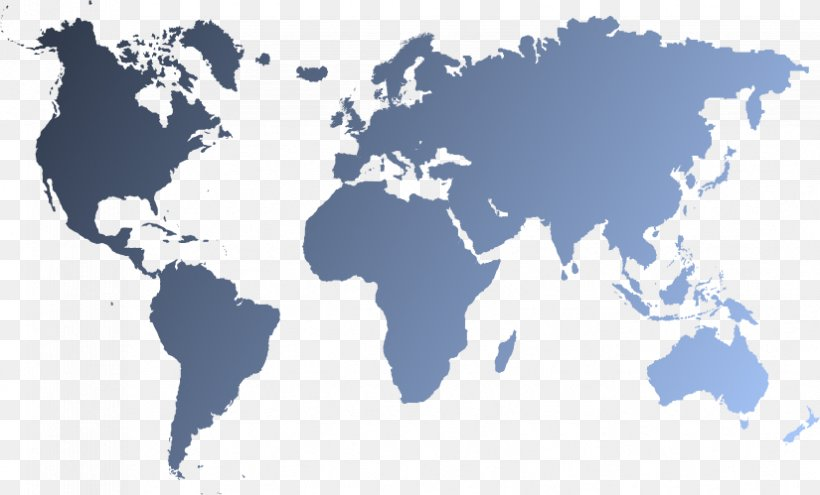
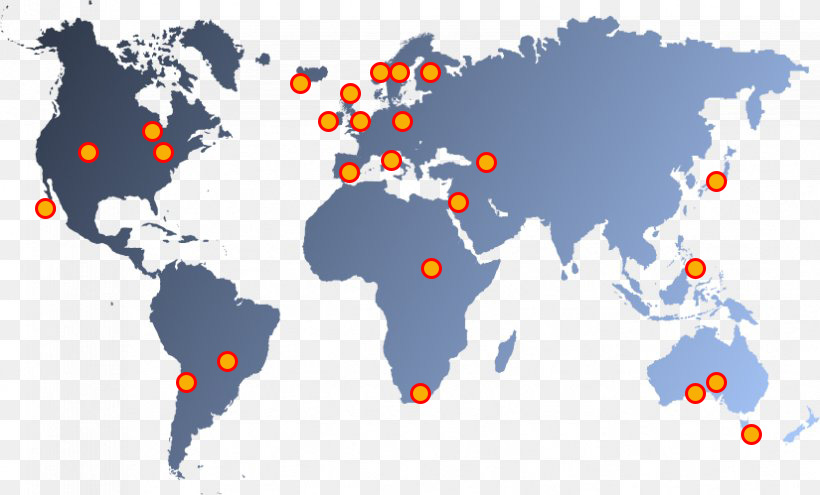
Creating Reviews section template  /about

diff --git a/about.html b/about.html
@@ -109,32 +109,29 @@
             <h3>Animated photo or Jumboo here</h3>
         </div>
 
-        <div class="container-fluid history-title no-gutter"> 
         
-            <h2>SPYRAMOTO</h2>
-        </div>
         
-        <div class="container-fluid exhaust-tuning">
+        <div class="container-fluid exhaust-tuning">  <!--==================================  TUNING - PAST, NOW AND FUTURE  ========================-->
             <h2>EXHAUST TUNING</h2>
                 <div class="row">
 
                     <div class="col-sm tuning scratch "> <!--================================================ SCRATCH ========================-->
-                            <h3 class="tuning-title">FROM <br class="d-lg-none">THE SCRATCH</h3>
+                            <h3 class="tuning-title">THE SCRATCH</h3>
                             <p class="tuning-icon"><i class="fas fa-history"></i></p>    
                             
                             <h4 class="tuning-subtitle">The  <br class="d-lg-none">Roots</h4>
                             <p class="tuning-content">
-                                    Wojtek comes from family that was involved in motorcycles since their started to cross our Globe. 
-                                    His Dad and his Uncle they had couple of them while Grandpa was a mechanic who fix their machines as well as worked for external customer and gained respect for his job.
+                                    My family that was involved in motorcycles since their started to cross our Globe. 
+                                    Both Dad and Uncle had few bikes while Grandpa was fixing them and was a respected local mechanic.
                             </p>
 
                             <hr class="general-divider d-block d-md-none"/>
 
                             <h4 class="tuning-title">Early <br class="d-lg-none">infected</h4>
                             <p class="tuning-content">
-                                    First bike in age 14. Many kilometers later started dreaming about having bike that gonna be really unusual and <strong> The Cyclop</strong> has raised. <br>
-                                    Kept for number of years finaly found new home in UK. And after publication people started to phone if he could do same good job on their model. <br>
-                                    After first, the second came, and so on. Today big family of <strong>over 20</strong> beauties like <em>"Skirtblower"</em> or <em>"N°13 Single Bend"</em> are flying to new owners overseas.<br>
+                                    I had my first bike in age 14. Many kms later I started dreaming about really unusual one and <strong> The Cyclop</strong> has raised and gained interest of press. <br>
+                                    People started to ask if I could do same good job on their models. <br>
+                                    Today big family of <strong>over 20</strong> beauties like <em>"Skirtblower"</em> or <em>"N°13 Single Bend"</em> are flying to new owners overseas.<br>
                                     See whole range <a href="range.html" class="badge badge-primary">HERE!</a>
                             </p>
                              
@@ -142,7 +139,7 @@
                     </div>
                     
                     <div class="col-sm tuning now "> <!--================================================ NOW ========================-->
-                            <h3 class="tuning-title">SPYRA <br class="d-lg-none">MOTO</h3>
+                            <h3 class="tuning-title">SPYRAMOTO</h3>
                             <p class="tuning-icon"><i class="fas fa-tools"></i></p>    
                             
                             <h4 class="tuning-subtitle">The  <br class="d-lg-none">Lucky</h4>
@@ -164,19 +161,20 @@
                     </div>
 
                     <div class="col-sm tuning future "> <!--================================================ FUTURE ========================-->
-                            <h3 class="tuning-title">THE <br class="d-lg-none">FUTURE</h3>
+                            <h3 class="tuning-title">THE FUTURE</h3>
                             <p class="tuning-icon"><i class="fas fa-binoculars"></i></p>    
                             
                             <h4 class="tuning-subtitle">New  <br class="d-lg-none">Materials</h4>
                             <p class="tuning-content">
-                                    I’d like to see more happy customers cruising on the roads so currently I’m testing <strong>titanium</strong> process to introduce this absolutely amazing material in future, so stay tuned!
+                                    I’d like to see more happy customers cruising on the roads so currently I’m testing <strong>titanium</strong> process to introduce this absolutely amazing material in future. 
+                                    It need to go under many checks before I'll accept new product to keep my reputation so please be patient and stay tuned!
                             </p>
 
                             <h4 class="tuning-title">Holy <br class="d-lg-none">Smoke</h4>
                             <p class="tuning-content">
                                     Good news - especially for Easy Riders!
-                                    A brand new and a brave design is in progress for green project that will be named: <br>
-                                <span class="badge badge-success">SOON!</span><strong> Raggamuffler</strong> – for relaxing rides in form of your favourite shaped joint!
+                                    Ever wondering how would look Marley on a Harley? To response this question a brand new and a brave design is in progress for green project that will be named: <br>
+                                <span class="badge badge-success">SOON!</span><strong> Raggamuffler</strong> – for quiet, relaxing and stylish ride in form of your perfectly shaped joint!
                             </p>
                              
                             <hr class="block-divider press-divider d-block d-md-none"/>
@@ -185,7 +183,94 @@
                     
                     
                 </div>  
+        </div> <!--========  TUNING END  ======-->
+
+
+
+
+        <div class="container-fluid rollin-round"> <!--==================================  MAP - ROLLIN' ROUND  ========================-->
+            <h2>ROLLIN' ROUND</h2>
+            <div class="row">
+                <div class="customers-map"> <!--- //////// CHANGE THAT CLASS LATER \\\\\\\\\\\\\\\ ----->
+                        <h3>They trusted us</h3>
+                        <div>
+                            <p>Check where you can <strong>hear</strong> SpyraMoto custom-build pipes!</p>
+                        </div>
+                </div>
+
+                <div class="card bg-dark text-white">
+                    <img class="card-img" src="assets/images/royaltyfreemap.jpg" alt="Card image">
+                    <div class="card-img-overlay text-primary">
+                        <h5 class="card-title text-light bg-dark">Map of Customers</h5>
+                    </div>
+                </div>
+            </div>
         </div>
+
+        
+        
+        
+        
+        <div class="container-fluid reviews">  <!--==================================  REVIEWS  ========================-->
+            <h2> REVIEWS</h2>  
+        </div> 
+
+        <div class="card-group"> <!--========== REVIEWS ROW 1 ==========-->
+
+            <div class="card review"> <!--========== wabbithunter69 ==========-->
+                <img class="card-img-top mx-auto rounded-circle" src="assets/images/01.jpg" alt="customised bike">
+                <div class="card-body">
+                <h5 class="card-title">N° 2 Pullbacks</h5>
+                <p class="card-text"><cite>
+                                    Nice one dude, much appreciated! <i class="far fa-thumbs-up"></i> <br>
+                                    Happy days man <i class="far fa-hand-peace"></i> Looks superb.
+                </cite></p>
+                </div>
+                <div class="card-footer">
+                    <small class="text-muted"> <i class="fas fa-user"></i> wabbithunter69 | MESOPOTAMIA <br>
+                    <span style="vertical-align:middle;">posted 6 Jan 2020 on</span> <span style="vertical-align:middle;">&nbsp;&nbsp;<i class="fab fa-instagram-square"></i></span></small>
+                </div>
+                
+            </div>
+
+                <hr class="general-divider d-block d-md-none"/>
+
+            <div class="card review"> <!--========== shand3m ==========-->
+                <img class="card-img-top mx-auto rounded-circle" src="assets/images/02.jpg" alt="customised bike">
+                <div class="card-body">
+                    <h5 class="card-title">N° 13 Single Bend</h5>
+                    <p class="card-text"><cite>
+                                    Beautiful<br>
+                                    hey look awesome man, send u pics when the bikes finished in a couple of weeks!</cite> <br>
+                                    [ALREADY SENT]
+                    </p>
+                </div>
+                <div class="card-footer">
+                    <small class="text-muted"> <i class="fas fa-user"></i> shand3m | DALMATIA <br>
+                    <span style="vertical-align:middle;">posted 31 Feb 2033 on</span> <span style="vertical-align:middle;">&nbsp;&nbsp;<i class="fab fa-instagram-square"></i></span></small>
+                </div>
+            </div>
+
+                <hr class="general-divider d-block d-md-none"/>
+
+            <div class="card review"> <!--========== Khoudri Dominique ==========-->
+                <img class="card-img-top mx-auto rounded-circle" src="assets/images/03.jpg" alt="customised bike">
+                <div class="card-body">
+                    <h5 class="card-title">N° 02 Pullbacks</h5>
+                    <p class="card-text"><cite>
+                                    Very nice !!! <i class="far fa-thumbs-up"></i>&nbsp;&nbsp;<i class="far fa-thumbs-up"></i> <br>
+                                    Thank you very much <i class="far fa-grin-beam-sweat"></i>  <i class="far fa-hand-rock"></i>
+                    </cite></p>
+                </div>
+                <div class="card-footer">
+                    <small class="text-muted"><i class="fas fa-user"></i> Khoudri Dominique | FR. POLINESIA  <br>
+                    <span style="vertical-align:middle;">posted 31 Feb 2033 on</span> <span style="vertical-align:middle;">&nbsp;&nbsp;<i class="fab fa-instagram-square"></i></span></small>
+                </div>
+            </div> 
+
+        </div>
+
+        <hr class="general-divider d-block d-md-none"/>
 
 
         

diff --git a/assets/css/style.css b/assets/css/style.css
@@ -575,6 +575,7 @@ body {
      padding-bottom: 15px;
      color: #404040; 
      margin-bottom: 0;
+     font-family: "Racing Sans One", sans-serif;
  }
 
 
@@ -601,6 +602,22 @@ body {
 }
 
 
+/*=============================    REVIEWS ===========================*/
+
+ 
+
+
+.reviews {
+    background-color: rgb(128, 2, 2);
+    padding-top: 0;
+    margin-top: 15px;
+}
+
+.review {
+    background-color: #999999;
+    padding-bottom: 15px;
+    padding-top: 30px;
+}
 
 
 
